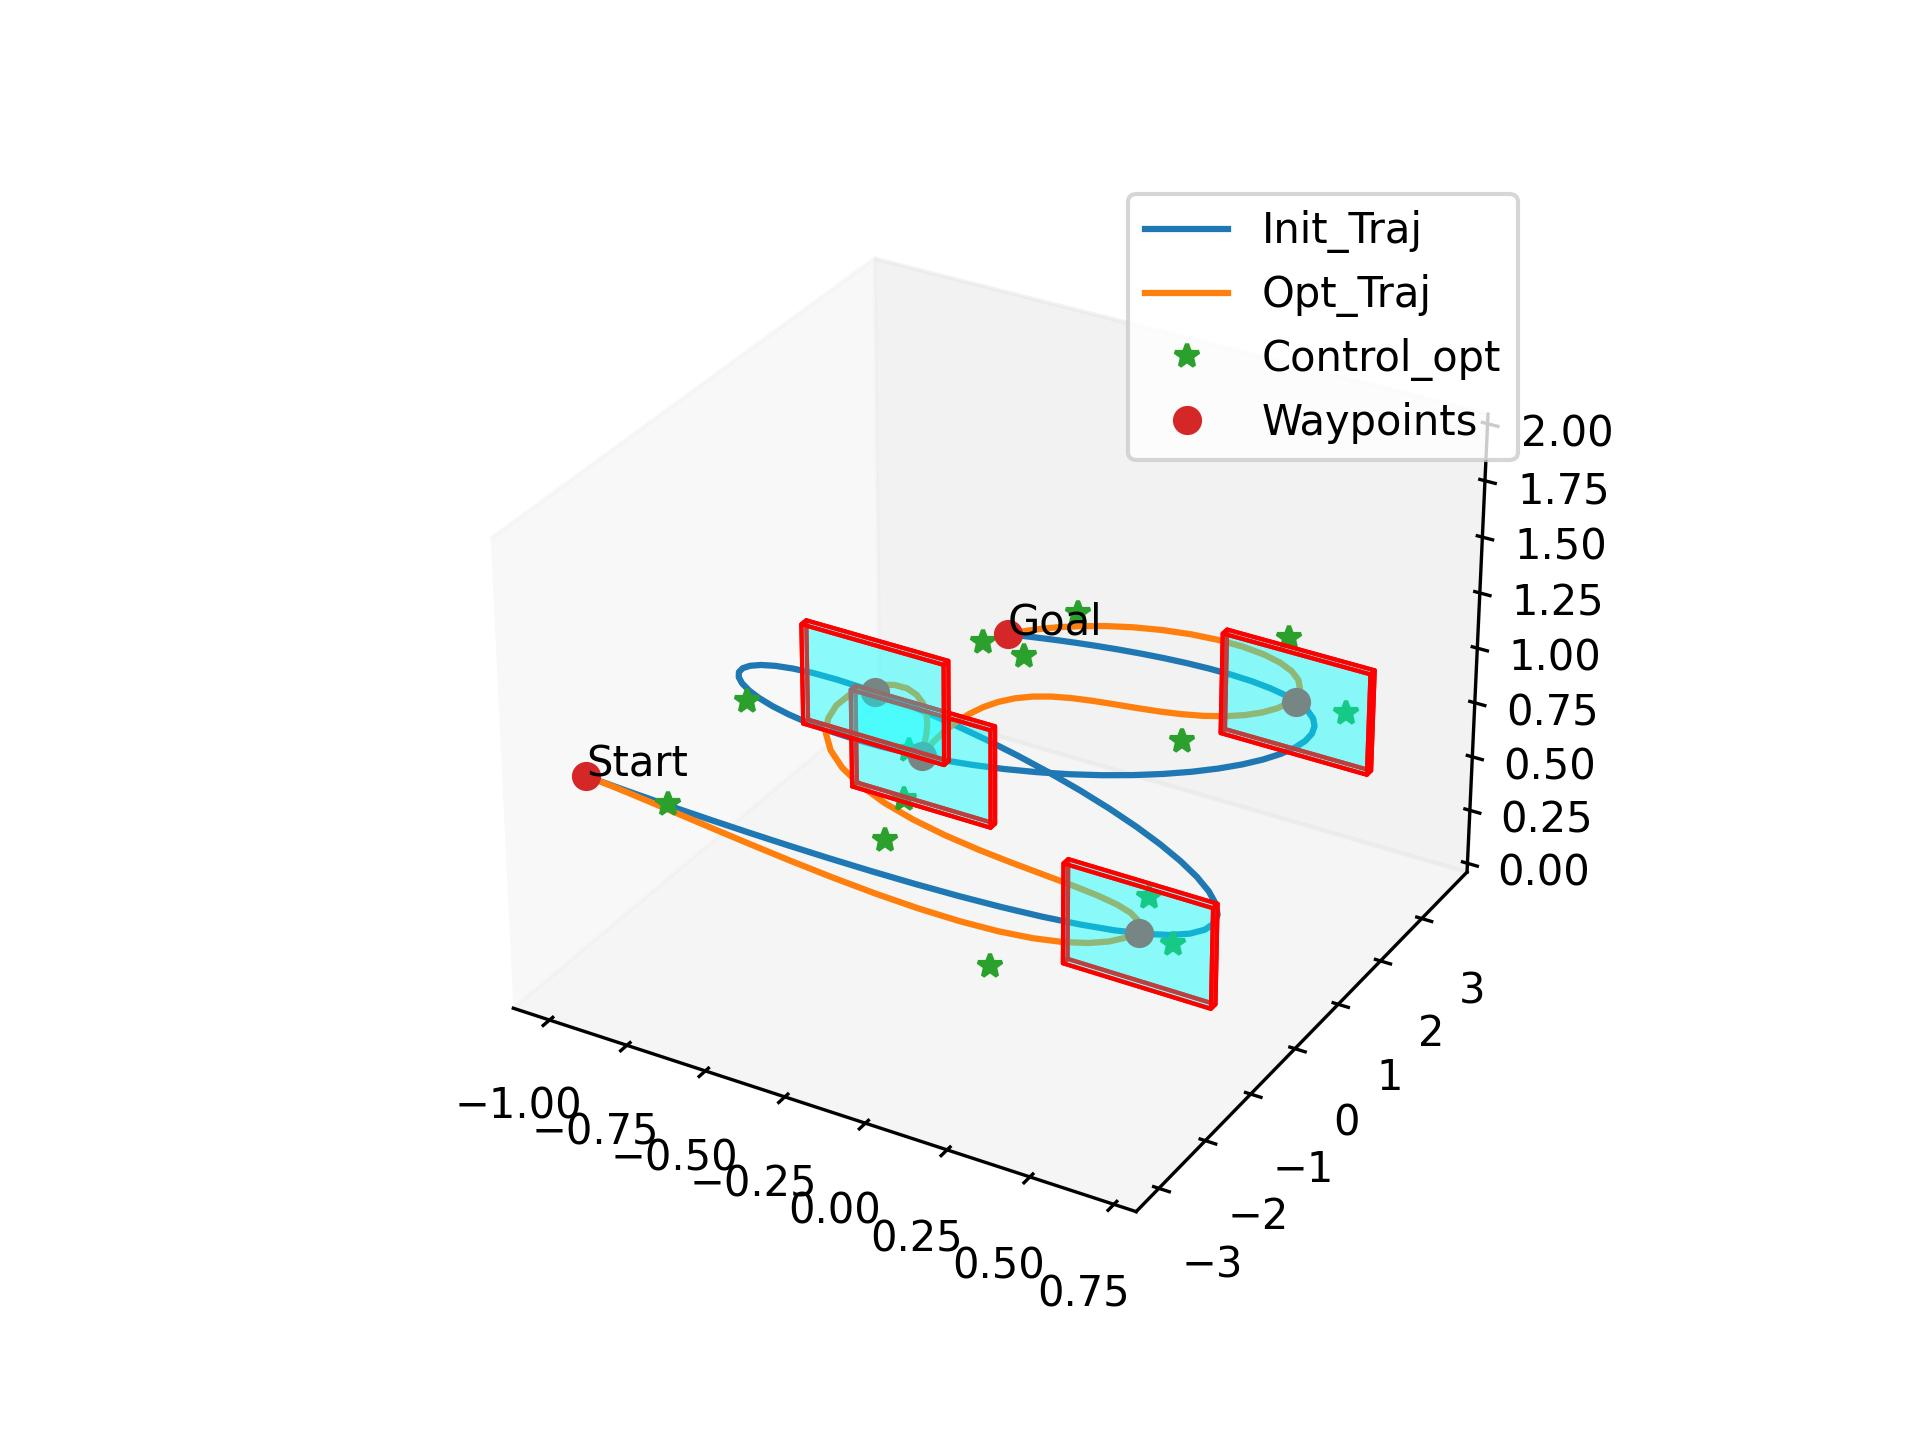
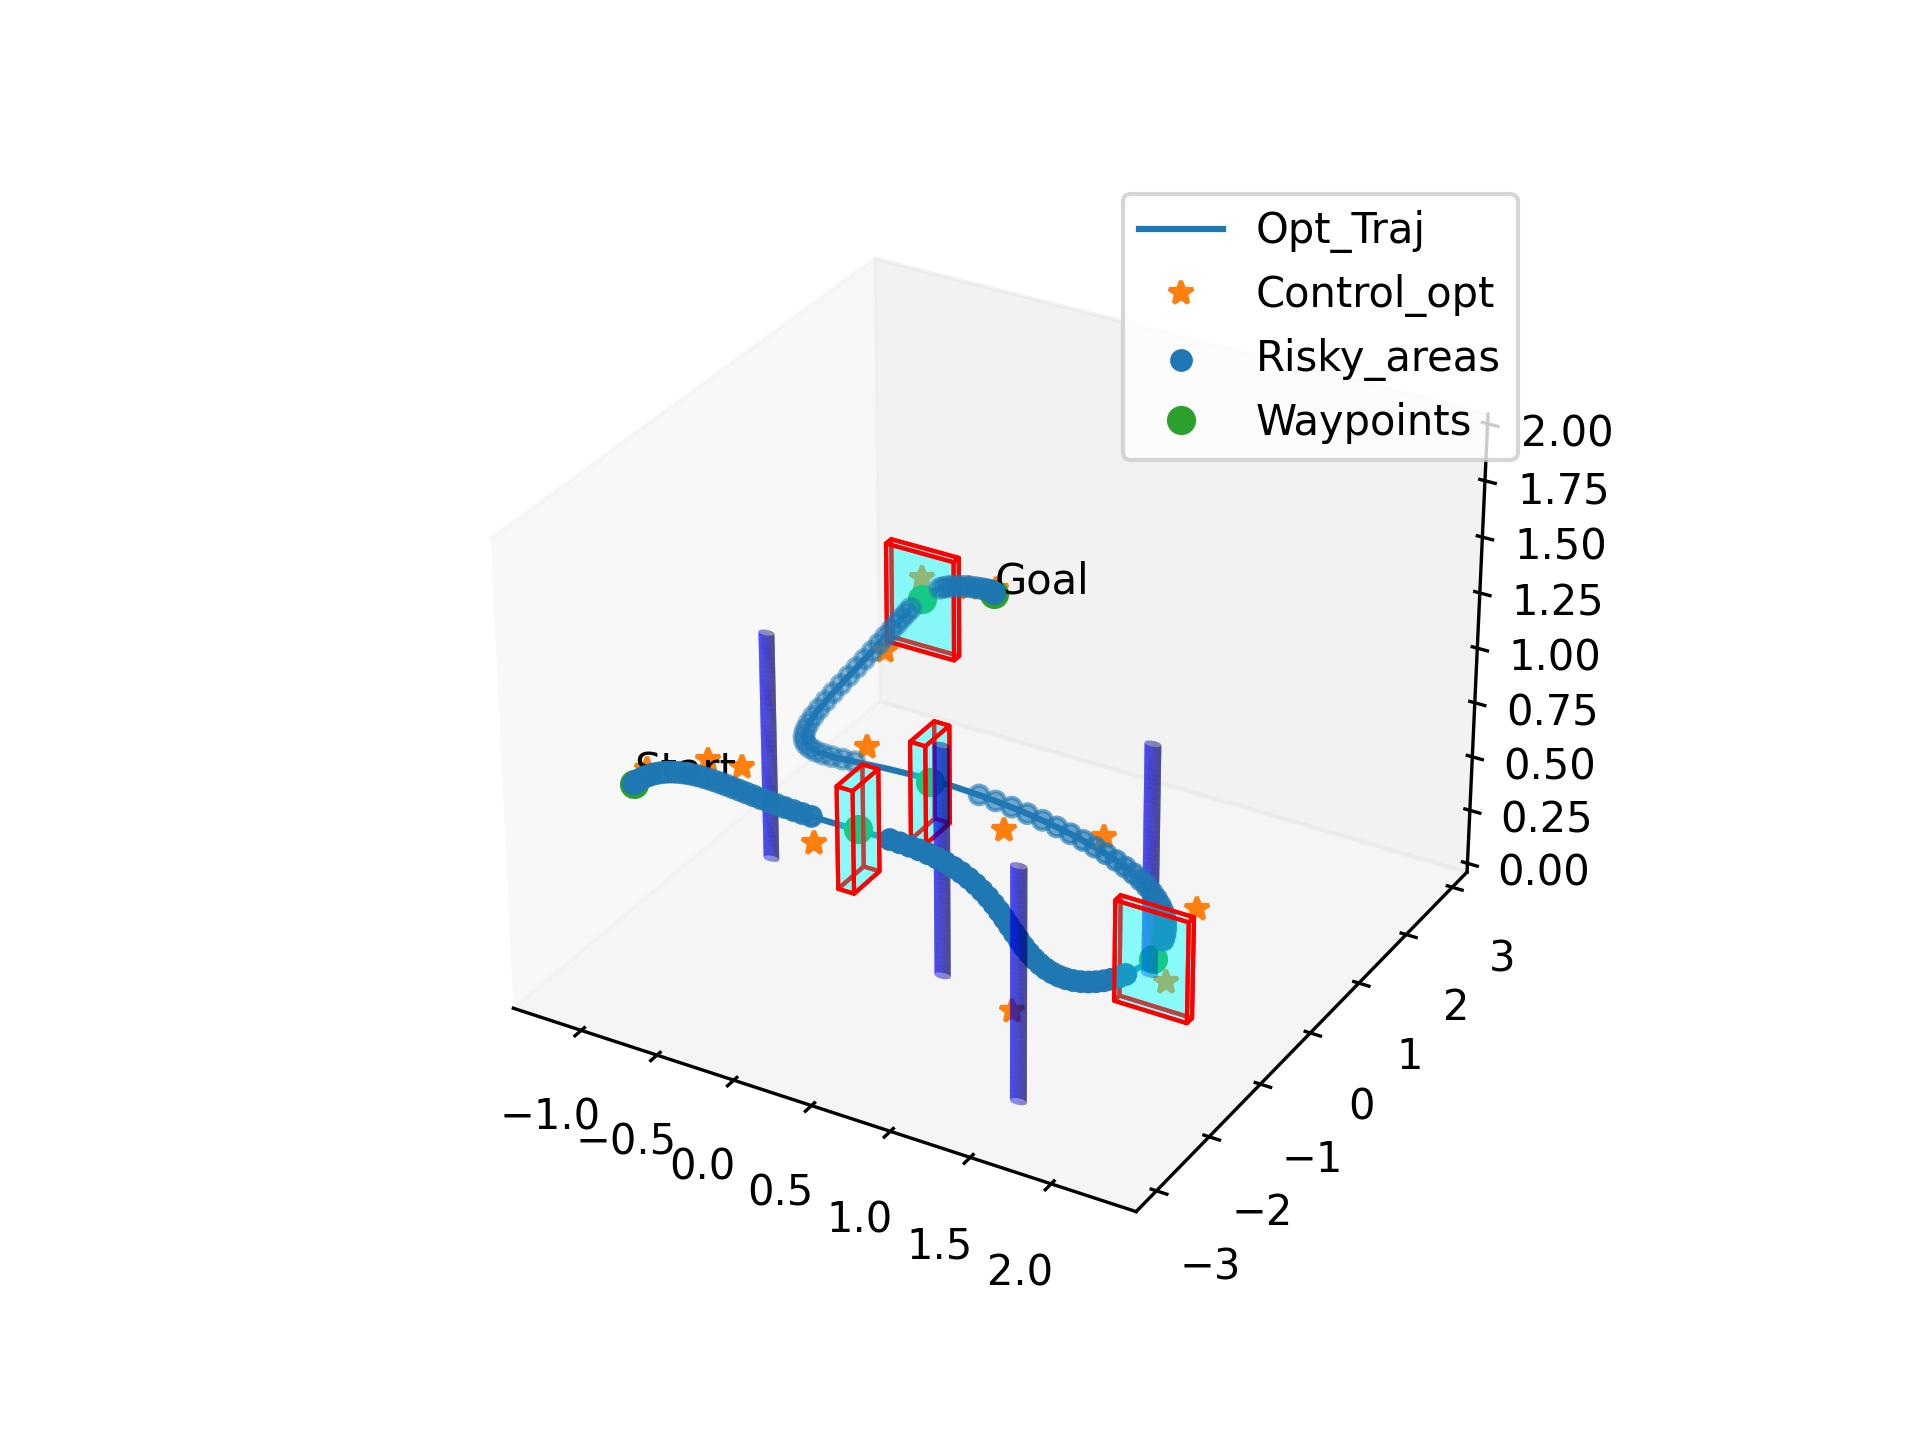
plot functions update

diff --git a/competition/flexibleTrajectoryPlanner/onlinelocalReplanner.py b/competition/flexibleTrajectoryPlanner/onlinelocalReplanner.py
@@ -271,7 +271,7 @@ class OnlineLocalReplanner:
         return cost
 
     def plot_xyz(self):
-        _, axs = plt.subplots(3, 1, figsize=(15, 8))
+        _, axs = plt.subplots(3, 1, figsize=(13, 7),dpi=300)
         time = self.t * np.linspace(0, 1, 100)
         coeffs = self.opt_spline.c
         knots = self.opt_spline.t
@@ -289,34 +289,36 @@ class OnlineLocalReplanner:
 
         p = self.opt_spline(time)
         p_init = self.global_spline(time)
+        # Plot for the x-axis
         axs[0].plot(time, p.T[0], label='local_plan_x')
         axs[0].plot(time, p_init.T[0], label='global_plan_x')
-        #  axs[0].scatter(self.opt_spline.t[3:-3], x_coeffs, label='control_x')
-        axs[0].scatter(self.gate_min_dist_knots,
-                       true_gate_x,marker='o',s=70,
-                       label='gate')
-        axs[0].scatter(self.current_flight_time_stack,
-                       drone_x, marker='*',s=70,
-                       label='drone')
+        axs[0].scatter(self.gate_min_dist_knots, true_gate_x, marker='o', s=70, label='gate')
+        axs[0].scatter(self.current_flight_time_stack, drone_x, marker='*', s=70, label='drone')
         axs[0].legend()
+        axs[0].set_ylabel('x (m)')  # Adding unit to Y-axis label for the first subplot
+
+        # Plot for the y-axis
         axs[1].plot(time, p.T[1], label='local_plan_y')
         axs[1].plot(time, p_init.T[1], label='global_plan_y')
-        axs[1].scatter(self.gate_min_dist_knots,
-                       true_gate_y,marker='o',s=70,
-                       label='gate')
-        axs[1].scatter(self.current_flight_time_stack,
-                       drone_y, marker='*',s=70,
-                       label='drone')
+        axs[1].scatter(self.gate_min_dist_knots, true_gate_y, marker='o', s=70, label='gate')
+        axs[1].scatter(self.current_flight_time_stack, drone_y, marker='*', s=70, label='drone')
         axs[1].legend()
+        axs[1].set_ylabel('y (m)')  # Adding unit to Y-axis label for the second subplot
+
+        # Plot for the z-axis
         axs[2].plot(time, p.T[2], label='local_plan_z')
         axs[2].plot(time, p_init.T[2], label='global_plan_z')
-        axs[2].scatter(self.gate_min_dist_knots,
-                       true_gate_z,marker='o',s=70,
-                       label='gate')
-        axs[2].scatter(self.current_flight_time_stack,
-                       drone_z, marker='*',s=70,
-                       label='drone')
+        axs[2].scatter(self.gate_min_dist_knots, true_gate_z, marker='o', s=70, label='gate')
+        axs[2].scatter(self.current_flight_time_stack, drone_z, marker='*', s=70, label='drone')
         axs[2].legend()
+        axs[2].set_ylabel('z (m)')  # Adding unit to Y-axis label for the third subplot
+
+        # Since time is common for all plots and typically only the bottom plot gets an X-axis label:
+        axs[2].set_xlabel('time (sec)')  # Adding unit to X-axis label
+
+        # Optionally, to improve readability, you might want to adjust subplot spacing
+        plt.tight_layout()
+
         plt.savefig("./online_plan_data/global_vs_local_xyz.png")
         plt.show()
 
@@ -333,33 +335,44 @@ class OnlineLocalReplanner:
         p_init = self.global_spline(time)
         axs[0].plot(time, p.T[0], label='opt_x')
         axs[0].plot(time, p_init.T[0], label='init_x')
-        #  axs[0].scatter(self.opt_spline.t[3:-3], x_coeffs, label='control_x')
         axs[0].scatter(self.gate_min_dist_knots[self.current_gateID],
-                       self.current_gate_pos[0],marker='o',s=20,
-                       label='gate')
+                    self.current_gate_pos[0], marker='o', s=20,
+                    label='gate')
         axs[0].scatter(self.current_time,
-                       self.current_drone_pos[0], marker='*',s=20,
-                       label='drone')
+                    self.current_drone_pos[0], marker='*', s=20,
+                    label='drone')
         axs[0].legend()
+        axs[0].set_ylabel('x (m)')  # Set Y-axis label for the first subplot
+
         axs[1].plot(time, p.T[1], label='opt_y')
         axs[1].plot(time, p_init.T[1], label='init_y')
         axs[1].scatter(self.gate_min_dist_knots[self.current_gateID],
-                       self.current_gate_pos[1],
-                       label='gate')
+                    self.current_gate_pos[1],
+                    label='gate')
         axs[1].scatter(self.current_time,
-                       self.current_drone_pos[1], marker='*',s=20,
-                       label='drone')
+                    self.current_drone_pos[1], marker='*', s=20,
+                    label='drone')
         axs[1].legend()
+        axs[1].set_ylabel('y (m)')  # Set Y-axis label for the second subplot
+
         axs[2].plot(time, p.T[2], label='opt_z')
         axs[2].plot(time, p_init.T[2], label='init_z')
         axs[2].scatter(self.gate_min_dist_knots[self.current_gateID],
-                       self.current_gate_pos[2],
-                       label='gate')
+                    self.current_gate_pos[2],
+                    label='gate')
         axs[2].scatter(self.current_time,
-                       self.current_drone_pos[2],
-                       label='drone')
+                    self.current_drone_pos[2],
+                    label='drone')
         axs[2].legend()
-        # plt.savefig("./online_plan_data/global_vs_local_xyz.png")
+        axs[2].set_ylabel('z (m)')  # Set Y-axis label for the third subplot
+
+        # Set X-axis label for the bottom subplot (since it's the only one with an x-axis visible in this layout)
+        axs[2].set_xlabel('time (sec)')
+
+        # Optionally, to improve readability, you might want to adjust subplot spacing
+        plt.tight_layout()
+
+        # Your existing code for displaying the plot
         plt.show(block=False)
         plt.pause(1)
         plt.close()

diff --git a/competition/flexibleTrajectoryPlanner/globalplanner.py b/competition/flexibleTrajectoryPlanner/globalplanner.py
@@ -843,7 +843,7 @@ class Globalplanner:
     def plot_xyz(self):
         """Plot the xyz trajectory
         """
-        _, axs = plt.subplots(3, 1, dpi=300)
+        _, axs = plt.subplots(3, 1, figsize=(13, 7), dpi=300)
         knot0 = self.deltaT2knot(self.deltaT0)
         knot = self.deltaT2knot(self.deltaT)
 
@@ -866,43 +866,42 @@ class Globalplanner:
         print("t:", self.opt_spline.t)
         print("pos:", x_coeffs)
 
+        # Plotting for the x-axis
         axs[0].plot(time, p.T[0], label='opt_spline')
         axs[0].plot(init_time, p_init.T[0], label='init_spline')
-        axs[0].scatter(self.opt_spline.t[3:-3],
-                       x_coeffs,
-                       label='control_opt_x')
-        
-        axs[0].scatter(self.init_spline.t[3:-3],
-                       x_init_coeffs,
-                       label='control_init_x')
-
-
+        axs[0].scatter(self.opt_spline.t[3:-3], x_coeffs, label='control_opt_x')
+        axs[0].scatter(self.init_spline.t[3:-3], x_init_coeffs, label='control_init_x')
         axs[0].legend()
+        axs[0].set_ylabel('x (m)')  # Set Y-axis label with unit for the first subplot
+
+        # Plotting for the y-axis
         axs[1].plot(time, p.T[1], label='opt_y')
         axs[1].plot(init_time, p_init.T[1], label='init_y')
-        # opt control points
-        axs[1].scatter(self.opt_spline.t[3:-3],
-                       y_coeffs,
-                       label='control_opt_y')
-        # init control points
-        axs[1].scatter(self.init_spline.t[3:-3],
-                y_init_coeffs,
-                label='control_init_y')
-        # axs[1].legend()
+        axs[1].scatter(self.opt_spline.t[3:-3], y_coeffs, label='control_opt_y')
+        axs[1].scatter(self.init_spline.t[3:-3], y_init_coeffs, label='control_init_y')
+        axs[1].legend()
+        axs[1].set_ylabel('y (m)')  # Set Y-axis label with unit for the second subplot
 
+        # Plotting for the z-axis
         axs[2].plot(time, p.T[2], label='opt_z')
         axs[2].plot(init_time, p_init.T[2], label='init_z')
-        axs[2].scatter(self.opt_spline.t[3:-3],
-                       z_coeffs,
-                       label='control_opt_z')
-        axs[2].scatter(self.init_spline.t[3:-3],
-                        z_init_coeffs,
-                        label='control_init_z')
-        # axs[2].legend()
+        axs[2].scatter(self.opt_spline.t[3:-3], z_coeffs, label='control_opt_z')
+        axs[2].scatter(self.init_spline.t[3:-3], z_init_coeffs, label='control_init_z')
+        axs[2].legend()
+        axs[2].set_ylabel('z (m)')  # Set Y-axis label with unit for the third subplot
+
+        # Set X-axis label with unit for the bottom subplot
+        axs[2].set_xlabel('time (sec)')
+
+        # Optionally, to improve readability, adjust subplot spacing
+        plt.tight_layout()
+
+        # Your existing code for displaying the plot
         plt.savefig("./plan_data/global_xyz_plan.jpg")
         plt.show(block=False)
         plt.pause(2)
         plt.close()
+
 
     def plot(self):
         """Plot the 3d trajectory
@@ -922,7 +921,7 @@ class Globalplanner:
         ax.set_zlim([0, 2])
 
         ax.grid(False)
-        ax.plot(p_init.T[0], p_init.T[1], p_init.T[2], label='Init_Traj')
+        # ax.plot(p_init.T[0], p_init.T[1], p_init.T[2], label='Init_Traj')
         ax.plot(p.T[0], p.T[1], p.T[2], label='Opt_Traj')
 
         ax.plot(coeffs[:, 0], coeffs[:, 1], coeffs[:, 2], '*', label='Control_opt')

diff --git a/competition/competition_utils.py b/competition/competition_utils.py
@@ -344,20 +344,20 @@ def plot_real_trajectory(t_scaled,
     axs[1].plot(t_scaled, obs_y, label='obs_y')
     axs[1].plot(t_scaled, ref_y, label='ref_y')
     axs[1].set_ylabel('y (m)', fontsize=12)
-    axs[1].set_xlabel('time (s)', fontsize=12)
+    axs[1].set_xlabel('time (sec)', fontsize=12)
     axs[1].legend(loc='lower right', fontsize=13)
 
     axs[2].plot(t_scaled, obs_z, label='obs_z')
     axs[2].plot(t_scaled, ref_z, label='ref_z')
     axs[2].set_ylabel('z (m)', fontsize=12)
-    axs[3].set_xlabel('time (s)', fontsize=12)
+    axs[3].set_xlabel('time (sec)', fontsize=12)
     axs[2].legend(loc='lower right', fontsize=13)
 
     axs[3].plot(t_scaled, acc_x-acc_x_init, label='delta_acc_x')
     axs[3].plot(t_scaled, acc_y-acc_y_init, label='delta_acc_y')
     axs[3].plot(t_scaled, acc_z-acc_z_init, label='delta_acc_z')
     axs[3].set_ylabel('acc (m/s-2)', fontsize=12)
-    axs[3].set_xlabel('time (s)', fontsize=12)
+    axs[3].set_xlabel('time (sec)', fontsize=12)
     axs[3].legend(loc='lower right', fontsize=13)
     plt.savefig("results/refvsobs_xyz.png")
     plt.show(block=False)
